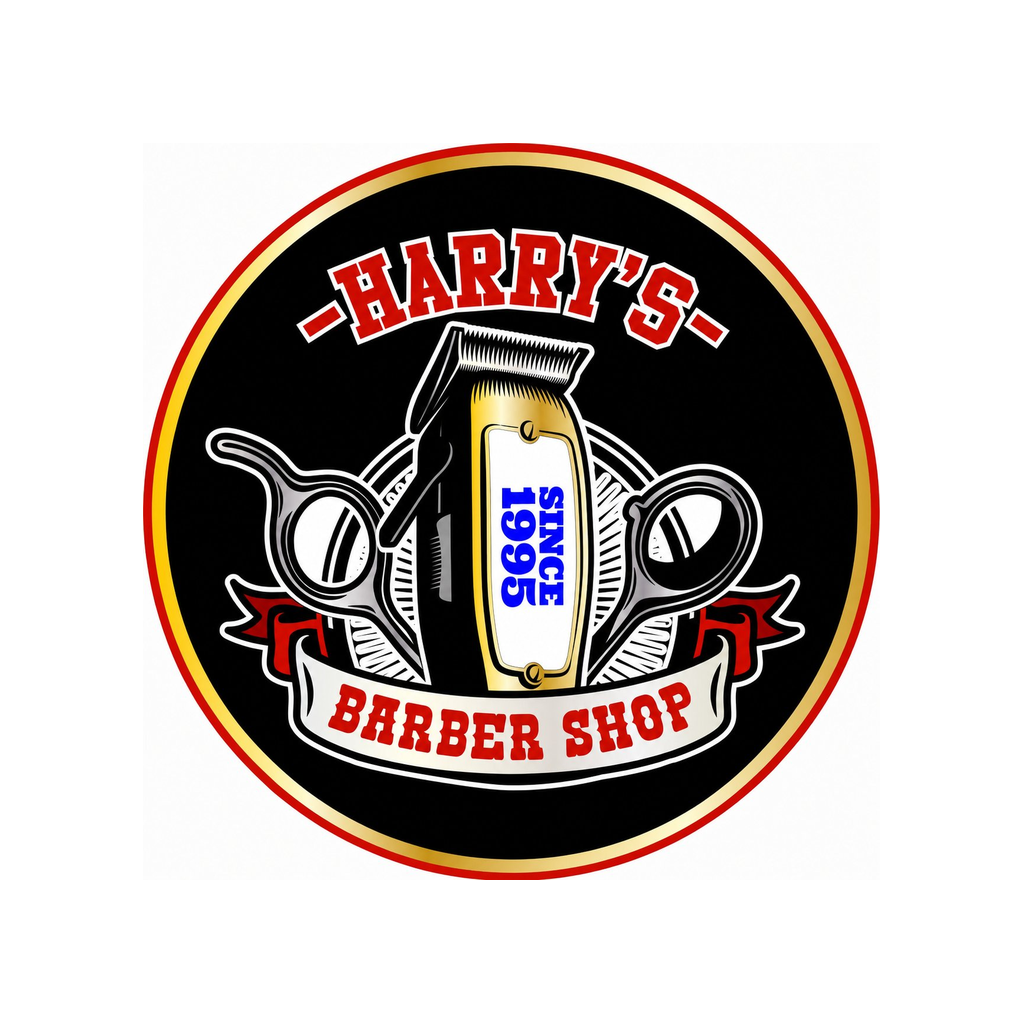
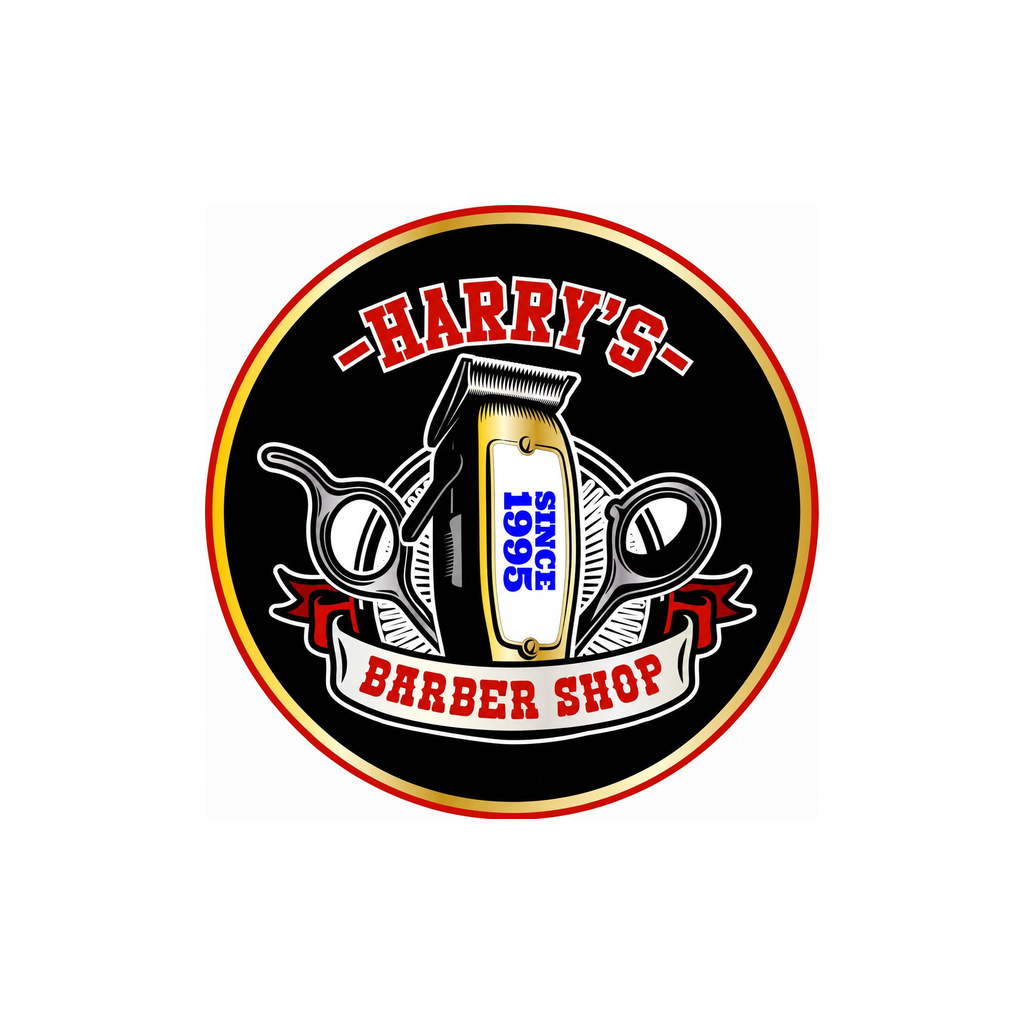
fix: crashes admin empleados/eventos, icono recortado, invitado sin datos
1. AdminEventosScreen: faltaban imports de ScreenWrapper, ThemedCard, TagChip
   - causa del crash al abrir desde dashboard admin
2. AdminEmpleadosScreen: verificado - imports correctos
3. launcher icon: logo reducido a 60% del canvas (614px) para que
   no se recorte en ninguna forma de icono Android
4. guestStore: ahora espera confirmacion de onAuthStateChanged antes
   de setear guest - garantiza que auth.currentUser != null cuando
   las pantallas montan y consultan Firestore

diff --git a/src/store/guestStore.ts b/src/store/guestStore.ts
@@ -1,5 +1,5 @@
 import { create } from "zustand";
-import { signInAnonymously, signOut } from "firebase/auth";
+import { signInAnonymously, signOut, onAuthStateChanged } from "firebase/auth";
 import { auth } from "../services/firebase";
 
 interface GuestUser {
@@ -18,21 +18,34 @@ export const useGuestStore = create<GuestState>()((set) => ({
 
   setGuest: async (g) => {
     try {
-      // Sign in anonymously so Firestore rules allow reads
+      // Sign in anonymously and WAIT for auth state to confirm
       await signInAnonymously(auth);
+      // Wait for onAuthStateChanged to fire with the anonymous user
+      await new Promise<void>((resolve) => {
+        const unsub = onAuthStateChanged(auth, (user) => {
+          if (user) {
+            unsub();
+            resolve();
+          }
+        });
+        // Timeout after 3s to avoid hanging
+        setTimeout(() => { unsub(); resolve(); }, 3000);
+      });
     } catch(e) {
       console.log("Anonymous sign in failed:", e);
     }
+    // Set guest AFTER auth is confirmed - screens will load data correctly
     set({ guest: g });
   },
 
   clearGuest: async () => {
+    set({ guest: null });
     try {
-      // Sign out the anonymous session
-      await signOut(auth);
+      if (auth.currentUser?.isAnonymous) {
+        await signOut(auth);
+      }
     } catch(e) {
       console.log("Sign out failed:", e);
     }
-    set({ guest: null });
   },
 }));

diff --git a/src/screens/admin/AdminEventosScreen.tsx b/src/screens/admin/AdminEventosScreen.tsx
@@ -5,6 +5,9 @@ import {
 } from "react-native";
 import { MaterialIcons } from "@expo/vector-icons";
 import { BackHeader }    from "../../components/ui/BackHeader";
+import { ScreenWrapper }  from "../../components/ui/ScreenWrapper";
+import { ThemedCard }  from "../../components/ui/ThemedCard";
+import { TagChip }  from "../../components/ui/TagChip";
 import {
   collection, getDocs, addDoc, updateDoc,
   deleteDoc, doc, Timestamp, orderBy, query,
